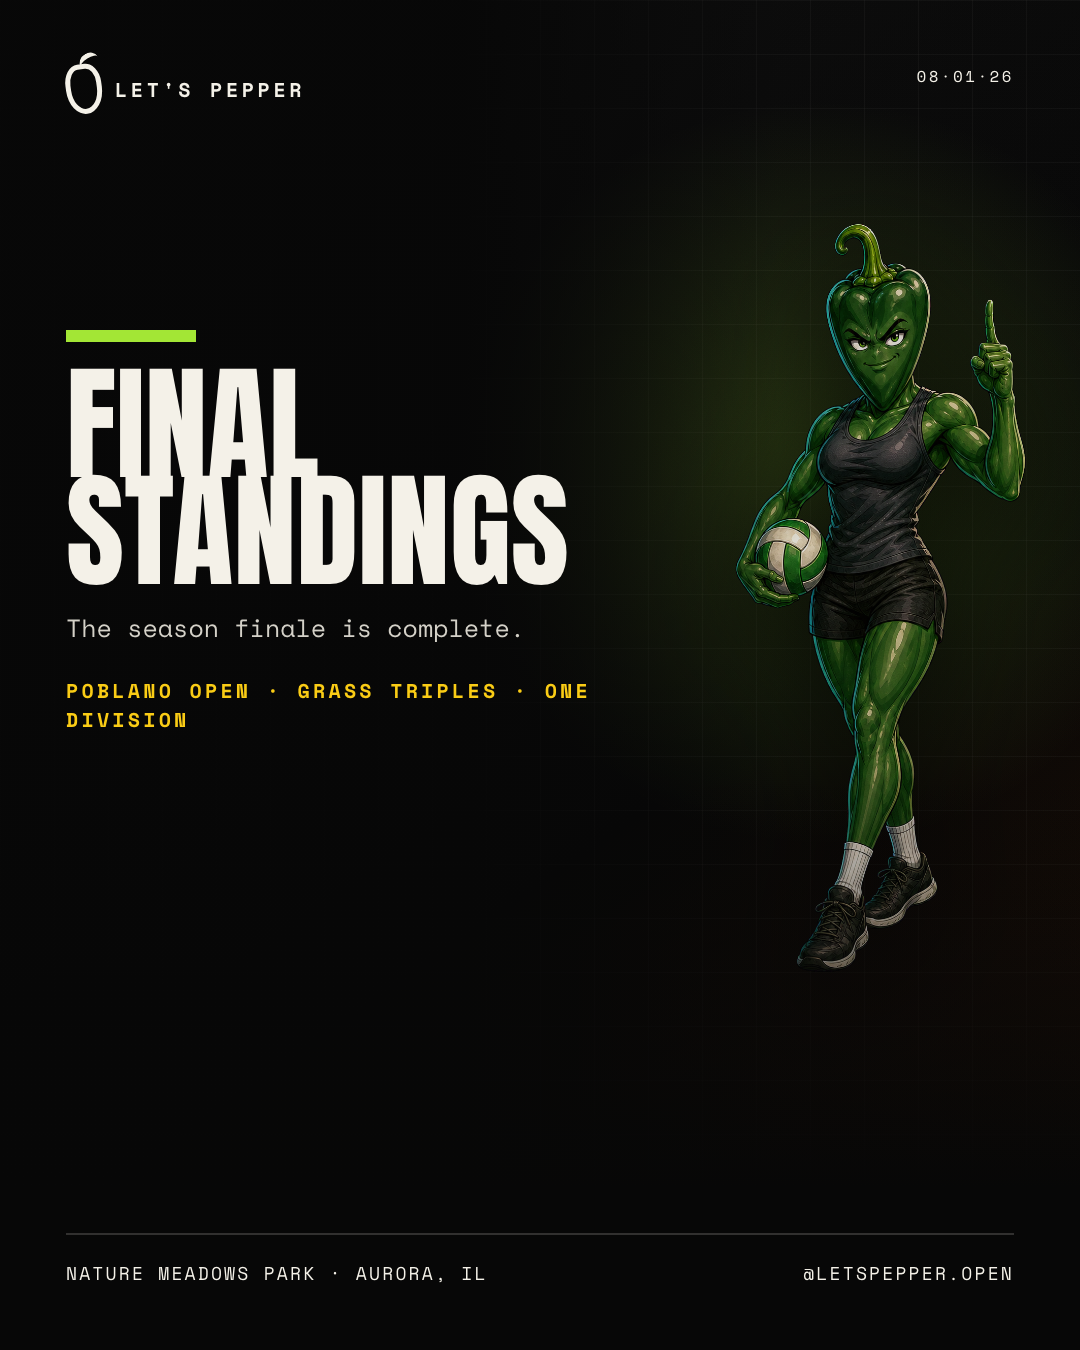
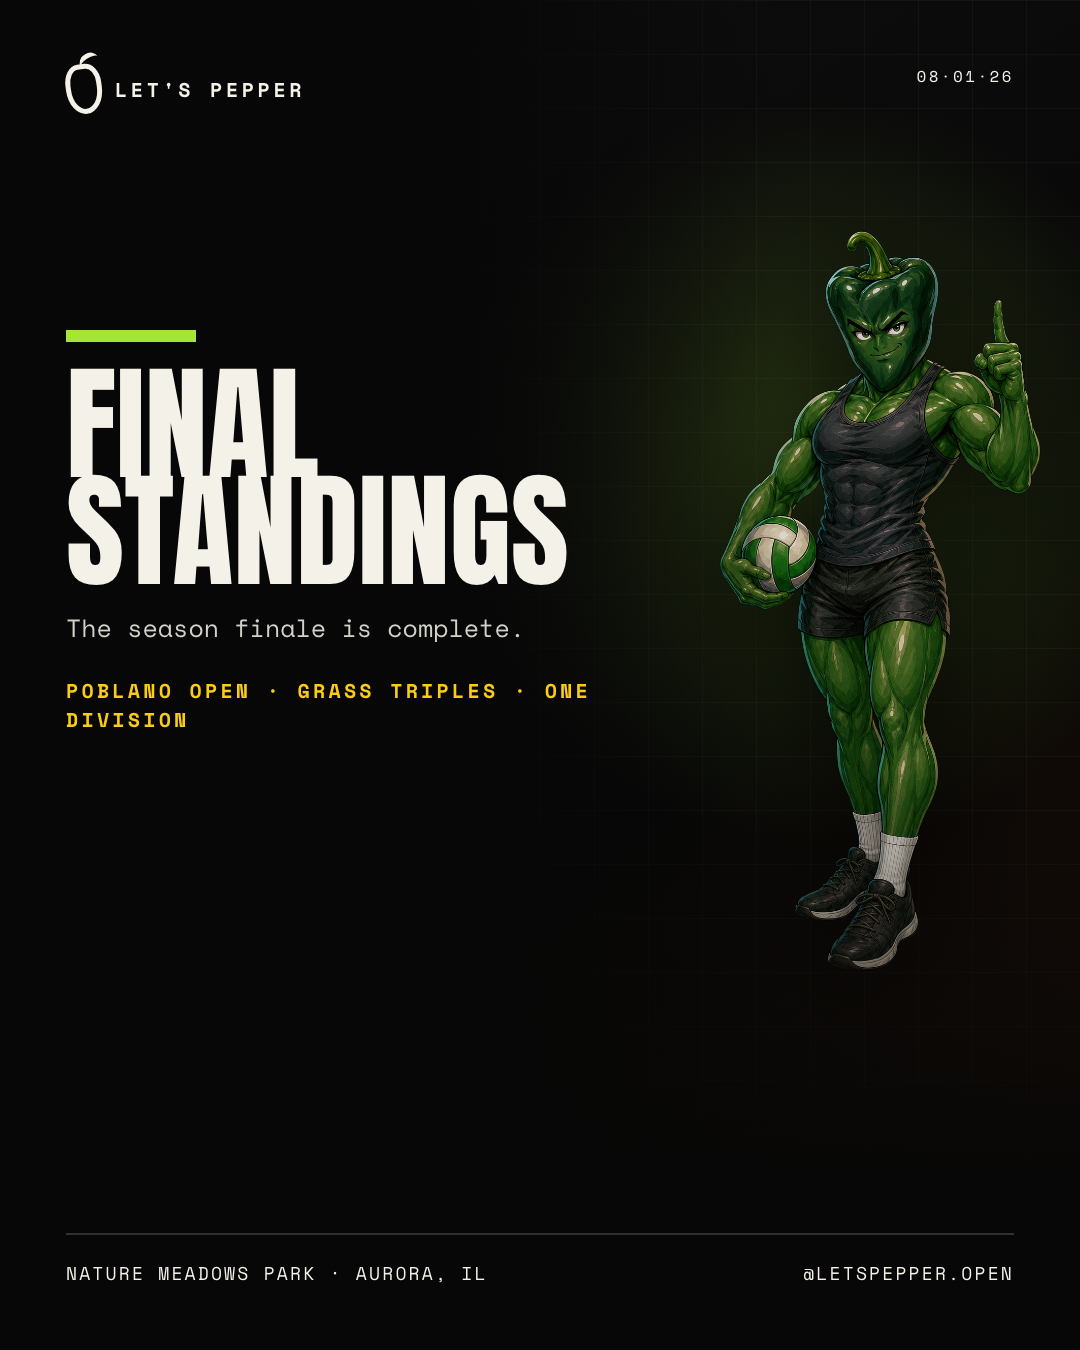
feat(campaign): Poblano Open finale — $2,000 payout showcase, Poblano Verde mascot, drip queue
- Promote the $2,000 first-place payout: event-page hero stat lockup (data-driven
  payoutHeadline), homepage marquee + tournament card, and payout-dominant
  campaign masters (feed + story) with 28-team field-push companions
- New Poblano Verde character: male-presenting poblano, full 7-pose family
  generated as gpt-image-2 edits of the female Poblano pose bases (chroma
  sources archived in creative/mascots/sources); fronts all Poblano Open event
  surfaces — the series runs men's divisions only. She stays on brand-level art.
- Re-render all event masters + im-in card with Verde; add web derivatives + OG
- Fix dead /tournaments/ CTA URL in media-kit config (route is /flavors/)
- Campaign plan (creative/campaigns/poblano-2026-finale.md) + social-publish
  drip queue with the three resolved-fact posts

Changed region(s): [[0.6722, 0.1556, 0.9778, 0.7156]]

diff --git a/src/app/flavors/[slug]/page.tsx b/src/app/flavors/[slug]/page.tsx
@@ -24,15 +24,18 @@ const heatConfig = {
   jalapeno: { color: 'var(--heat-jalapeno)', textClass: 'text-heat-jalapeno', borderClass: 'border-heat-jalapeno', bgClass: 'bg-heat-jalapeno', glowClass: 'hover:bg-heat-jalapeno-glow', level: 'Hot', bars: 3 },
 }
 
-/** heat → canonical anime-library character slug (dir names differ from heat keys). */
+/** heat → canonical anime-library character slug (dir names differ from heat keys).
+ *  Poblano Verde (male-presenting) fronts the poblano event: the series runs men's
+ *  divisions only, so the female-presenting Poblano misrepresents the field on event
+ *  surfaces. She stays in the brand roster; swap back if/when a women's division exists. */
 const mascotCharacter: Record<TournamentDetail['heat'], string> = {
   bell: 'bell-pepper',
   jalapeno: 'jalapeno',
-  poblano: 'poblano',
+  poblano: 'poblano-verde',
 }
 
 /** heat → role pose per the library README (bell = blocker, jalapeño = all-rounder serve,
- *  poblano = libero — her dig pose is landscape, so the shared portrait slot gets menace-walk). */
+ *  poblano = the shared portrait slot gets menace-walk). */
 const mascotRolePose: Record<TournamentDetail['heat'], string> = {
   bell: 'block',
   jalapeno: 'jump-serve',
@@ -213,6 +216,19 @@ export default function FlavorPage({ params }: { params: { slug: string } }) {
               </h1>
 
               <p className="text-xl sm:text-2xl leading-relaxed text-zinc-300">{tournament.headline}</p>
+
+              {tournament.payoutHeadline && (
+                <div className="flex items-baseline gap-x-5 gap-y-2 flex-wrap pt-1">
+                  <span
+                    className={cn('font-display leading-none text-7xl sm:text-8xl lg:text-9xl', config.textClass)}
+                  >
+                    {tournament.payoutHeadline.amount}
+                  </span>
+                  <span className="font-accent text-xs sm:text-sm font-bold uppercase tracking-[0.14em] text-zinc-300 max-w-[16rem] leading-relaxed">
+                    {tournament.payoutHeadline.label}
+                  </span>
+                </div>
+              )}
 
               <div className="flex flex-wrap gap-5 font-accent text-sm text-zinc-300 pt-1">
                 <span>{tournament.division.replace(' (One Division)', '')}</span>

diff --git a/src/lib/tournaments.ts b/src/lib/tournaments.ts
@@ -24,6 +24,8 @@ export interface TournamentDetail {
 	division: string
 	entryFee: string
 	format: string
+	/** Headline prize rendered as the hero stat on the event page (omit when no cash headline). */
+	payoutHeadline?: { amount: string; label: string }
 	payouts: string[]
 	features: string[]
 	mediaPerks: string[]
@@ -99,9 +101,10 @@ export const tournaments: Record<string, TournamentDetail> = {
 		name: 'Poblano Pepper Open',
 		heat: 'poblano',
 		tagline: 'Season Finale',
-		headline: 'The season closes at the Poblano Open. One final field, one final bracket.',
+		headline:
+			'The season closes at the Poblano Open. $2,000 to the winning team — the largest payout in series history.',
 		description:
-			'The finale rewards defense, touch, and patience under pressure. Expect long rallies, tight decisions, and a field playing for the final standings.',
+			'The finale rewards defense, touch, and patience under pressure. We are building the biggest field the series has seen — 28 teams — and every one of them gets full media coverage.',
 		date: 'Saturday, August 1, 2026',
 		startsAt: '2026-08-01T09:00:00-05:00',
 		time: 'Check-in 8:30 AM · Serve by 9:00 AM',
@@ -109,8 +112,9 @@ export const tournaments: Record<string, TournamentDetail> = {
 		division: 'Grass Triples (One Division)',
 		entryFee: '',
 		format: 'Pool Play + Single Elimination Bracket',
-		payouts: ['Prizes for top finishers', 'Season recap content', 'Year-end merch'],
-		features: ['Season Closer', 'Final Standings', 'Year-End Celebration'],
+		payoutHeadline: { amount: '$2,000', label: 'First place · The largest payout in series history' },
+		payouts: ['$2,000 first place — the largest payout in series history', 'Season recap content', 'Year-end merch'],
+		features: ['$2,000 First Place', 'Season Closer', 'Final Standings'],
 		mediaPerks: ['Professional photo coverage by Flickday Media', 'Season recap content', 'Full gallery access']
 	}
 }

diff --git a/src/components/Marquee.tsx b/src/components/Marquee.tsx
@@ -214,7 +214,7 @@ export function Marquee({
 const upcomingEvents = [
   { name: 'Bell Pepper Open', slug: 'bell-pepper-open-2026', date: '2026-06-07', displayDate: 'June 7', variant: 'bell' as const },
   { name: 'Jalapeño Open', slug: 'jalapeno-open-2026', date: '2026-07-18', displayDate: 'July 18', variant: 'jalapeno' as const },
-  { name: 'Poblano Open', slug: 'poblano-open-2026', date: '2026-08-01', displayDate: 'Aug 1', variant: 'poblano' as const },
+  { name: 'Poblano Open', slug: 'poblano-open-2026', date: '2026-08-01', displayDate: 'Aug 1', variant: 'poblano' as const, payout: '$2,000 First Place' },
 ]
 
 /**
@@ -285,6 +285,7 @@ export function NextEventMarquee({ className }: { className?: string }) {
         { text: '〰' },
         { text: next.name, highlight: true },
         { text: '〰' },
+        ...('payout' in next && next.payout ? [{ text: next.payout, highlight: true }, { text: '〰' }] : []),
         { text: next.displayDate },
         { text: '〰' },
         { text: 'Aurora, IL' },

diff --git a/src/components/TournamentSeries.tsx b/src/components/TournamentSeries.tsx
@@ -53,13 +53,14 @@ const tournaments: Tournament[] = [
     name: 'Poblano Open',
     heat: 'poblano',
     slug: 'poblano-open-2026',
-    mascot: '/images/mascots/anime/web/poblano-menace-walk-256.webp',
+    // Poblano Verde fronts this event — men's divisions only; see flavors/[slug] mascotCharacter note.
+    mascot: '/images/mascots/anime/web/poblano-verde-menace-walk-256.webp',
     tagline: 'Season Finale',
     description:
-      "The season closes with long rallies, tight decisions, and one final bracket.",
+      "The season closes with one final bracket — and $2,000 on the line for first place.",
     date: '2026-08-01',
     displayDate: 'August 1, 2026',
-    features: ['Season Closer', 'Final Standings', 'Year-End Celebration'],
+    features: ['$2,000 First Place', 'Season Closer', 'Final Standings'],
   },
 ]
 

diff --git a/src/lib/og-mascots.ts b/src/lib/og-mascots.ts
@@ -14,7 +14,8 @@ const FILES = {
 	brand: 'og-jalapeno-menace-walk-360.png',
 	bell: 'og-bell-pepper-block-360.png',
 	jalapeno: 'og-jalapeno-jump-serve-360.png',
-	poblano: 'og-poblano-menace-walk-360.png',
+	// Poblano Verde fronts the poblano event (men's divisions only; see flavors/[slug] note).
+	poblano: 'og-poblano-verde-menace-walk-360.png',
 } satisfies Record<TournamentDetail['heat'] | 'brand', string>
 
 export async function loadMascot(key: keyof typeof FILES): Promise<ArrayBuffer | undefined> {

diff --git a/creative/campaigns/poblano-2026-finale.md b/creative/campaigns/poblano-2026-finale.md
@@ -1,0 +1,100 @@
+# Poblano Open 2026 — Finale Campaign
+
+**Goal:** 28 registered teams by Friday, July 31. **Hook:** $2,000 first place — the largest payout in series history.
+
+Run window: Thursday, July 24 → Saturday, August 1 (event day). Channels: letspepper.com + @letspepper.open.
+
+## Why 28 is the story
+
+Past fields (from `src/lib/standings-data.ts`): Grass Launch 2025 — 16 teams. Bell Pepper Open 2025 — 22. Bell Pepper Open 2026 — 19. 28 teams breaks the series record by six. The money claim and the field claim reinforce each other: biggest payout deserves the biggest field.
+
+> **Verify before publishing any "record" caption:** the standings snapshot does not yet include the Jalapeño Open (Jul 18, 2026). Run `npm run check:rhq-drift`, regenerate the snapshot, and confirm JPO's field size was under 28 before using "biggest field ever" with a number attached.
+
+## Message hierarchy
+
+1. **$2,000 first place.** Concrete number, largest in series history. Lead with it everywhere.
+2. **The season closes here.** Final standings, points race, last bracket of the year.
+3. **28-team field.** Frame as the field we're building, not a promise — "X of 28 claimed" once real counts exist.
+4. **Every team gets covered.** Full photo/video by Flickday Media is the differentiator no other local grass event has. Third beat, never the headline.
+
+Voice gate applies to every caption below (`creative/copy/VOICE.md`): no slang, zero emoji default, exact destinations, max one pepper pun (all captions below use zero).
+
+## Character direction
+
+**Poblano Verde — a new male-presenting poblano — fronts every Poblano Open event surface** (site hero/card/OG, lifecycle masters, campaign masters, the `I'M IN` card). The series runs men's divisions only, so the female-presenting Poblano misrepresents the field on event marketing; the event is named for the poblano, so the stand-in had to be poblano-based, not a borrowed Bell Pepper. She stays in the brand roster (covers, brand share templates, universe band). Verde is a full seven-pose family generated as gpt-image-2 edits of her matching poses (choreography, kit, and style preserved); sources archived at `creative/mascots/sources/poblano-verde-*-chroma.png`, brief in `creative/mascots/EXPANSION-BRIEFS.md`. Swap her back in the day a women's division exists.
+
+## Site (done in this pass)
+
+- `/flavors/poblano-open` — hero shows a display-size `$2,000` stat lockup (data-driven via `payoutHeadline` on the tournament record); headline, prizes list, and feature chips lead with the payout; description carries the 28-team build. OG share card inherits automatically.
+- Homepage — hero marquee scrolls `$2,000 FIRST PLACE` for the next event (per-event `payout` field, disappears for events without a cash headline); tournament card description and features lead with it.
+- Asset CTA URL fixed: `letspepper.com/flavors/poblano-open` (the `/tournaments/...` path on prior masters 404s — re-render before reusing old story exports).
+
+## Instagram calendar
+
+Assets ship from `creative/exports/media-kit-v1/` after `node scripts/media-kit/render-media-kit.mjs`. New masters this pass: `event/poblano/stories/13-payout`, `14-field-target`; `event/poblano/feed/06-payout`, `07-field-target`.
+
+Placeholders in `{braces}` are publish-time fills from the registration sheet or Rally HQ. **Do not post unresolved braces** (caption-bank rule).
+
+### Thu Jul 24 — soft setup (today)
+
+- Story: `01-next-up` master. Establish the date. Add countdown sticker.
+- Create story highlight `POBLANO 26`; every campaign story pins into it.
+
+### Fri Jul 25 — payout announcement (anchor post)
+
+- **Feed:** `06-payout` (4:5).
+- Caption: `$2,000 to the winning team. The largest payout in Let's Pepper history, and it's on the line at the season finale. Poblano Open · Saturday, August 1 · Nature Meadows Park, Aurora, IL. Grass triples, one division. Register at letspepper.com.`
+- Pinned comment: registration link. Story: `13-payout` same day, link sticker to `/signup`.
+
+### Sat Jul 26 — the field push
+
+- **Feed:** `07-field-target` (4:5).
+- Caption: `28 teams. That's the field we're building for the finale — the biggest bracket this series has run. The record is {record} teams. Break it with us. Poblano Open · August 1 · Aurora, IL. Register at letspepper.com. Tag the two you'd run it with.`
+- `{record}` = verified prior max after the RHQ drift check (22 if JPO didn't exceed it).
+- The "tag your two" line is the growth mechanic — triples means every tag is two-thirds of a roster.
+
+### Sun Jul 27 — stakes: the points race
+
+- **Feed:** standings carousel (screenshot `/standings` or render a data card).
+- Caption: `Every placement scores season points, and this is the last event to move. {leader} leads the race at {points}. One bracket left. Poblano Open · August 1. Full standings at letspepper.com/standings.`
+- Fill from regenerated snapshot (includes JPO). This post doubles as the JPO results tie-off if results haven't been posted yet.
+
+### Mon Jul 28 — details day
+
+- **Story sequence:** `02-registration` + schedule pattern story.
+- Caption/text: `Check-in 8:30 AM. Serve by 9. Pool play into bracket — every point counts for seeding. Nature Meadows Park, Aurora, IL. Register at letspepper.com.`
+
+### Tue Jul 29 — proof: every team gets covered
+
+- **Reel:** best 20–30s of JPO footage from `creative/exports/jpo-capcut-kit`, payout end-card (`13-payout` as final frame).
+- Caption: `{play_detail from clip map}. Every team gets this — photo and video on every court, all day. Poblano Open · August 1. Register at letspepper.com. Shot by @flickday.media.`
+
+### Wed Jul 30 — spots update
+
+- **Story (feed too if ≥20 claimed):** `{n} OF 28` over `14-field-target` master.
+- Caption: `{n} of 28 spots claimed. Poblano Open · Saturday, August 1. Register at letspepper.com.`
+- Registered teams: DM each captain the `I'M IN` share card (`share/templates/im-in`) and ask them to post + tag teammates. This is the highest-leverage action of the week — 20 teams posting beats any brand post.
+
+### Fri Jul 31 — field set / last call
+
+- Morning story if short of 28: `Last call. {n} spots left for tomorrow. Register at letspepper.com.`
+- **Feed (evening):** `02-field-set` master.
+- Caption: `The field is set. {n} teams, one bracket, $2,000 to the winner. First serve 9 AM. Courts and matchups at letspepper.com/flavors/poblano-open.`
+- Story: champion-pick push — `Picks lock at first serve. letspepper.com/predictions.`
+
+### Sat Aug 1 — event day
+
+Run the existing lifecycle masters in order: `03-schedule-live` → `05-pool-play` → `06-bracket-live` → `07-live` (+ `08-weather` as needed) → `09-standings` → `10-gallery`. Post-event: champions feed post, play of the day, photo of the day, gallery link, participant cards. Per `ASSET-STRATEGY.md`: factual updates beat decorative posts all day.
+
+## Cadence and mechanics summary
+
+- One feed post per day Jul 25–27, then Jul 29 reel, Jul 30 conditional, Jul 31 field-set. Stories daily, all pinned to the `POBLANO 26` highlight.
+- Registration confirm flow is an IG DM — hold response time under a few hours during the campaign week; a slow confirm kills the momentum the posts create.
+- On-site loops to link from stories: `/predictions` (picks lock at first serve), `/quiz`, `/bingo`, `/photo-vote`.
+
+## Open inputs (operator)
+
+1. **Entry fee** — stated nowhere on site or form embed. Fine to keep off public copy, but confirm that's deliberate; "what's it cost" will be the top DM question of the week.
+2. **Payout below first** — captions only claim $2,000/1st. If 2nd/3rd pay, say so on the event page prizes list; podium money helps mid-tier teams commit.
+3. **28: cap or target?** Copy above frames it as the field we're building. If it's a hard cap, "spots left" language gets stronger — confirm which.
+4. **JPO tie-off** — snapshot regen (`npm run check:rhq-drift`) unblocks the Jul 27 standings post and the `{record}` fill.

diff --git a/creative/mascots/EXPANSION-BRIEFS.md b/creative/mascots/EXPANSION-BRIEFS.md
@@ -65,6 +65,18 @@ Long curved yellow pepper; lean agile athlete in a black kit; setter-ready stanc
 hands raised and focused eyes. Useful for assists, explainers, schedules, polls, and
 lighter editorial beats. Confident, not a slapstick banana character.
 
+### Poblano Verde — middle blocker / net anchor (full pose family)
+
+Deep emerald-green poblano pod head — broad-shouldered, gently heart-shaped, glossy,
+thick dark stem; powerful male-presenting athlete with flat muscular chest, broad
+shoulders, thick neck and forearms; black tank and shorts kit; green/cream ball.
+Fronts the Poblano Pepper Open on every event surface (the series runs men's
+divisions only; the female-presenting Poblano stays on brand-level assets). Unlike
+the other expansion anchors, this is a full seven-pose family: each pose was
+generated as a gpt-image-2 edit of the female Poblano's matching pose (preserves
+choreography, kit, and family style), on the standard magenta chroma. Sources:
+`sources/poblano-verde-<pose>-chroma.png`. Confident, competitive; not a bully.
+
 ### Shishito — utility wildcard
 
 Slim wrinkled dark-green pepper; compact agile athlete in a low ready stance with a
